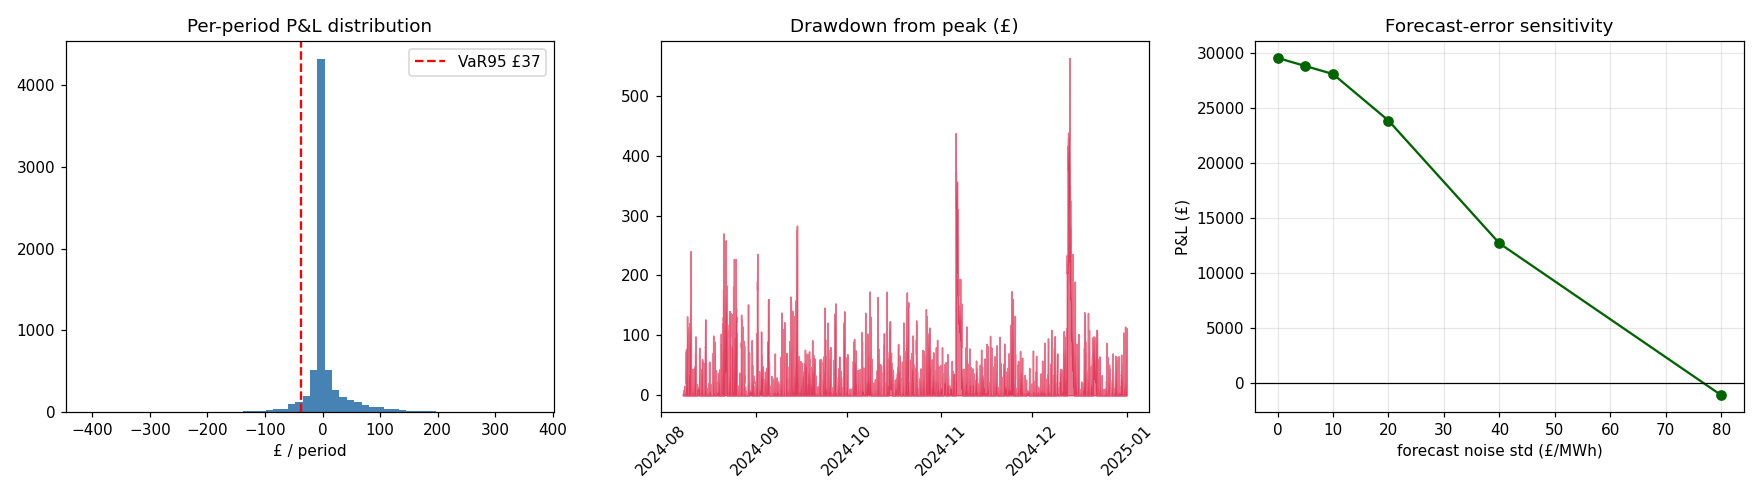
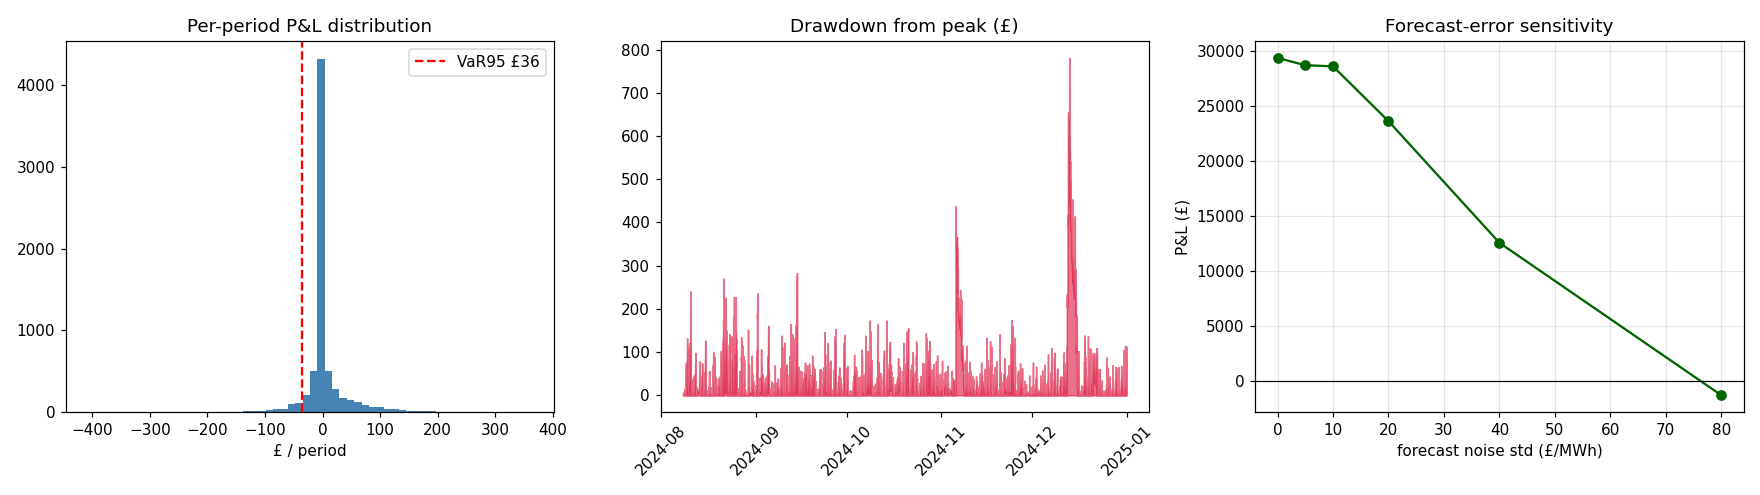
Fix negative-price P&L attribution: split realised cash from mark-to-market
The Stage-5 regime stress reported negative-price periods as a large loss
(-24% of P&L). Diagnosis showed this was NOT a trading bug: during negative
prices the strategy correctly charges at ~max power (gets paid to consume,
SoC -> 92%), and realised cash flow is POSITIVE (+£0.5k). The apparent loss was
pure mark-to-market revaluation of held inventory as the sale price craters.

- simulate.SimResult.realized_pnl(): per-period realised cash flow (cash.diff),
  excluding MtM revaluation of stored energy.
- risk.stress_by_regime: attribute realised cash flow and MtM separately, so a
  correct action (charging at negative prices) is no longer misread as a loss.
- test: charging at a negative price yields positive realised cash while equity
  (incl. MtM) falls.

Corrected finding (2024 test): negative-price realised P&L +£504 (MtM -£7.7k);
price spikes ~64% of realised P&L. 15/15 tests pass.

(No policy change - the strategy was already handling negative prices correctly;
this fixes the measurement.) Advances issue #2 (Stage 5).

diff --git a/risk.py b/risk.py
@@ -103,9 +103,12 @@ def forecast_error_sensitivity(forecast: pd.Series, df: pd.DataFrame, batt: Batt
 
 
 def stress_by_regime(res: SimResult, df: pd.DataFrame) -> pd.DataFrame:
-    """Attribute realised per-period P&L to market regimes. Uses the ML sim's period P&L
-    (SoC-consistent) grouped by regime masks, so it shows where value is made/lost."""
-    pnl = res.period_pnl()
+    """Attribute P&L to market regimes. Reports REALISED cash flow separately from
+    mark-to-market, because MtM revaluation of held inventory can make a *correct* action
+    look like a loss — e.g. charging at negative prices earns positive cash while the
+    stored energy's MtM value falls. Realised cash flow is the honest 'did trading earn'."""
+    realized = res.realized_pnl()
+    mtm = res.period_pnl() - realized
     mid = (df["SystemSellPrice"] + df["SystemBuyPrice"]) / 2
     vol = mid.diff().abs().rolling(48).std()
     hi_vol = vol > vol.median()
@@ -116,15 +119,16 @@ def stress_by_regime(res: SimResult, df: pd.DataFrame) -> pd.DataFrame:
         "negative price": df["SystemSellPrice"] < 0,
         "all periods": pd.Series(True, index=df.index),
     }
+    total_real = realized.sum()
     rows = []
     for name, mask in regimes.items():
-        m = mask.reindex(pnl.index).fillna(False)
-        seg = pnl[m]
+        m = mask.reindex(realized.index).fillna(False)
         rows.append({
             "regime": name, "periods": int(m.sum()),
-            "total_pnl": float(seg.sum()),
-            "pnl_per_period": float(seg.mean()) if len(seg) else 0.0,
-            "share_of_pnl": float(seg.sum() / pnl.sum()) if pnl.sum() else float("nan"),
+            "realized_pnl": float(realized[m].sum()),
+            "mtm_pnl": float(mtm[m].sum()),
+            "realized_per_period": float(realized[m].mean()) if m.sum() else 0.0,
+            "share_of_realized": float(realized[m].sum() / total_real) if total_real else float("nan"),
         })
     return pd.DataFrame(rows)
 

diff --git a/tests/test_pipeline.py b/tests/test_pipeline.py
@@ -177,9 +177,22 @@ def test_risk_metrics_are_coherent():
     assert 0.0 <= rm.max_drawdown <= 1.0
     assert 0.0 <= rm.exposure <= 1.0
     reg = stress_by_regime(res, df)
-    # Regime P&L shares (excluding the 'all periods' row) sum to ~1.
-    parts = reg[reg.regime != "all periods"]
-    assert abs(parts[parts.regime.isin(["high volatility", "low volatility"])].share_of_pnl.sum() - 1.0) < 1e-6
+    # high + low volatility partition all periods, so their realised-P&L shares sum to ~1.
+    hilo = reg[reg.regime.isin(["high volatility", "low volatility"])]
+    assert abs(hilo.share_of_realized.sum() - 1.0) < 1e-6
+
+
+def test_charging_at_negative_price_is_positive_realised_cash():
+    """Charging when prices are negative earns positive realised cash flow, even though the
+    stored energy's mark-to-market value is negative. This is why regime attribution must
+    split realised from MtM (the 'negative-price loss' was an MtM artifact, not a bug)."""
+    idx = pd.date_range("2024-01-01", periods=4, freq="30min")
+    df = pd.DataFrame({"SystemSellPrice": [-50.0] * 4, "SystemBuyPrice": [-49.0] * 4}, index=idx)
+    charge = pd.Series(BATT.max_energy_per_period_kwh, index=idx)  # charge every period
+    res = simulate(charge, df["SystemSellPrice"], df["SystemBuyPrice"], BATT, TRADE)
+    realized = res.realized_pnl()
+    assert realized.sum() > 0                       # got paid to charge -> positive cash
+    assert res.period_pnl().sum() < realized.sum()  # MtM of held energy drags equity down
 
 
 def test_forecast_error_sensitivity_baseline_matches():

diff --git a/simulate.py b/simulate.py
@@ -38,11 +38,22 @@ class SimResult:
         return pd.Series(self.equity, index=self.index)
 
     def period_pnl(self) -> pd.Series:
-        """Per-period change in equity (£) — the P&L used for risk metrics."""
+        """Per-period change in equity (£) — realised cash flow PLUS the change in
+        mark-to-market value of stored energy. Used for risk metrics."""
         eq = self.equity_series()
         if eq.empty:
             return eq
         return eq.diff().fillna(eq.iloc[0] - self.starting_balance)
+
+    def realized_pnl(self) -> pd.Series:
+        """Per-period REALISED cash flow (£), excluding mark-to-market revaluation of
+        held inventory. This is the honest 'what did trading earn this period' series —
+        e.g. charging at a negative price is a positive realised cash flow even though the
+        stored energy's MtM value is negative."""
+        cash = pd.Series(self.cash, index=self.index)
+        if cash.empty:
+            return cash
+        return cash.diff().fillna(cash.iloc[0])
 
 
 def simulate(requests_kwh, prices_sell, prices_buy, batt: BatteryConfig,

diff --git a/ROADMAP.md b/ROADMAP.md
@@ -74,11 +74,13 @@ sensitivity to forecast errors, performance in extreme volatility.
 Status: `risk.py` computes VaR, **CVaR/expected shortfall**, Sortino, downside deviation,
 drawdown depth **and duration**, skew/kurtosis, exposure; runs a **forecast-error
 sensitivity** sweep (P&L vs injected forecast noise) and a **regime stress** attribution
-(high/low volatility, price spikes, negative prices). On 2024 test data: Sharpe ~16,
-Sortino ~21, fat right tail (skew +1.4, kurtosis 13); price spikes (15% of periods)
-generate ~67% of P&L; **negative-price periods LOSE money (−24% of P&L)** — a concrete
-fix target; P&L decays to zero at ~£80/MWh forecast noise. Still to add: VaR term
-structure, explicit extreme-scenario replays.
+(high/low volatility, price spikes, negative prices), attributing **realised cash flow
+separately from mark-to-market**. On 2024 test data: Sharpe ~16, Sortino ~21, fat right
+tail (skew +1.4, kurtosis 13); price spikes (15% of periods) generate ~64% of realised
+P&L. Negative-price periods earn **positive realised cash (+£0.5k)** — the strategy
+correctly charges when paid to consume — while their −£7.7k mark-to-market is a transient
+inventory revaluation, not a loss (an earlier MtM-inclusive view misread this). P&L decays
+to zero at ~£80/MWh forecast noise. Still to add: VaR term structure, extreme-scenario replays.
 
 ## What is deliberately NOT done yet
 - No live/real performance numbers — the CSVs (`SystemSellAndBuyPrices/`,
